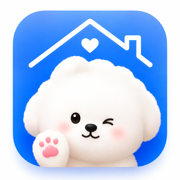
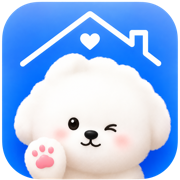
리액션 잠금 + 타임라인/특이사항 위계 + 아이콘 v2
- 리액션은 한 번 보내면 못 바꾼다 (서버 트리거로도 고정, 마이그레이션 22)
- 타임라인 헤더: 시각을 먼저 진하게, 종류는 작은 칩으로
- 특이사항 행: 라벨 위 본문 아래, 구분선, 카드 gap 분리
- span 배지들 세로 가운데 정렬
- 앱 아이콘 v2 (여백 없는 버전), 180/512 정사각, ?v=4

diff --git a/app/src/ui/screens/owner.js b/app/src/ui/screens/owner.js
@@ -63,7 +63,7 @@ export function ownerInstall(state, go, rerender) {
   const step1 = () => sheet([
     el('div', { class: 'grip' }),
     el('div', { class: 'a2head' }, [
-      el('div', { class: 'appicon' }, el('img', { class: 'appimg', src: '/app-icon-180.png?v=3', alt: '' })),
+      el('div', { class: 'appicon' }, el('img', { class: 'appimg', src: '/app-icon-180.png?v=4', alt: '' })),
       el('div', { class: 'pcol' }, [
         el('div', { class: 'h', text: '홈 화면에 앱으로 추가' }),
         el('div', { class: 'sub', text: '설치하면 앱처럼 전체화면으로 열려요.' }),
@@ -421,10 +421,10 @@ export function ownerHome(c, go, ui, rerender, bell) {
         const notes = c.notes.filter(n => !n.pet_id || n.pet_id === cur);
         return notes.length ? el('div', { class: 'sectwrap' }, [
           el('div', { class: 'sect', text: '내가 남긴 특이사항' }),
-          card(notes.map(n => el('div', { class: 'noterow' }, [
+          card([el('div', { class: 'rows' }, notes.map(n => el('div', { class: 'noterow' }, [
             el('span', { class: 'notechip', text: kindName(n.kind) }),
             el('span', { class: 'ptext', text: n.text }),
-          ]))),
+          ])))]),
         ]) : null;
       })() : card([
         el('div', { class: 'profhead' }, [
@@ -470,8 +470,8 @@ export function ownerHome(c, go, ui, rerender, bell) {
         const out = p ? outMinutes(p) : null;
         return card([
           el('div', { class: 'tlhead' }, [
-            el('span', { class: 'kchip' + (p ? ' on' : ''), text: kindName(it.kind) + (p ? ' 완료' : '') }),
-            el('span', { class: 'tltime', text: p ? clock(p.submitted_at) : (it.fuzz_min === -1 ? '아무때나' : `${hm(it.at_time)} 예정`) }),
+            el('span', { class: 'tltime', text: p ? clock(p.submitted_at) : (it.fuzz_min === -1 ? '아무때나' : hm(it.at_time)) }),
+            el('span', { class: 'kchip' + (p ? ' on' : ''), text: kindName(it.kind) + (p ? ' 완료' : ' 예정') }),
             p && !p.seen && !p.verdict ? el('span', { class: 'badge', text: 'NEW' }) : null,
           ]),
           p && p.text ? el('div', { class: 'tltext', text: p.text }) : null,
@@ -496,13 +496,19 @@ export function ownerHome(c, go, ui, rerender, bell) {
               el('span', { class: 'tag', text: ph.is_album ? '앨범' : '앱 촬영' }),
             ]))) : null,
           x.text ? el('div', { class: 'ptext', text: x.text }) : null,
-          el('div', { class: 'react' }, Object.entries(REACTIONS).map(([label, emoji]) =>
-            el('button', { 'aria-pressed': (x.thanks_reaction || '') === label, text: `${emoji} ${label}`,
-              onclick: async () => {
-                x.thanks_reaction = label; x.thanks_at = new Date().toISOString();
-                rerender();
-                try { await thankExtra(x.id, label); } catch (e) { flash('전달 실패', e.message); }
-              } }))),
+          el('div', { class: 'react' + (x.thanks_reaction ? ' locked' : '') },
+            Object.entries(REACTIONS).map(([label, emoji]) =>
+              el('button', {
+                'aria-pressed': (x.thanks_reaction || '') === label,
+                disabled: !!x.thanks_reaction,
+                text: `${emoji} ${label}`,
+                onclick: async () => {
+                  if (x.thanks_reaction) return;
+                  x.thanks_reaction = label; x.thanks_at = new Date().toISOString();
+                  rerender();
+                  try { await thankExtra(x.id, label); } catch (e) { flash('전달 실패', e.message); }
+                },
+              }))),
           x.thanks_at ? el('span', { class: 'thxdone', text: `${clock(x.thanks_at)} 시터에게 전달됐어요` }) : null,
         ])),
       ]) : null,

diff --git a/app/src/style.css b/app/src/style.css
@@ -157,8 +157,14 @@ input[type=time]::-webkit-calendar-picker-indicator{width:15px;height:15px;paddi
   background:rgba(23,23,25,.62);color:#fff;font-size:12px;line-height:1}
 .react{display:flex;gap:6px;flex-wrap:wrap}
 .react button{flex:1;min-width:96px;height:38px;border-radius:1000px;border:1px solid var(--line);
-  background:#fff;color:var(--ink2);font-size:13px;font-weight:600}
+  background:#fff;color:var(--ink2);font-size:13px;font-weight:600;
+  display:inline-flex;align-items:center;justify-content:center;gap:4px}
 .react button[aria-pressed="true"]{background:var(--tint);border-color:var(--primary);color:var(--primary-ink)}
+/* 보낸 뒤에는 고른 것만 남기고 나머지는 물러난다 */
+.react.locked button{opacity:.4}
+.react.locked button[aria-pressed="true"]{opacity:1}
+/* 패딩만 준 span 배지들은 글자가 위로 붙는다 — 스스로 가운데 정렬한다 */
+.badge,.notechip,.kchip,.tag,.veri,.unver,.shotstamp{display:inline-flex;align-items:center;justify-content:center}
 .thxdone{font-size:12px;font-weight:600;color:var(--primary-ink)}
 /* 펫시터 프로필 */
 .veri{align-self:flex-start;font-size:11px;font-weight:700;padding:5px 10px;border-radius:1000px;
@@ -201,17 +207,19 @@ input[type=time]::-webkit-calendar-picker-indicator{width:15px;height:15px;paddi
 .capture{width:100%;border-radius:10px;border:1px solid var(--line);display:block}
 /* 돌봄 일지 — 활동 타임라인 */
 .sect{font-size:17px;font-weight:800;letter-spacing:-.01em;padding:6px 4px 0}
-.tlhead{display:flex;align-items:center;gap:9px}
-.kchip{font-size:12px;font-weight:700;padding:6px 11px;border-radius:1000px;background:var(--bg);color:var(--ink4)}
+.tlhead{display:flex;align-items:center;gap:8px}
+.tltime{font-size:15px;font-weight:700;color:var(--ink);font-variant-numeric:tabular-nums;letter-spacing:-.01em}
+.kchip{font-size:11px;font-weight:700;padding:4px 9px;border-radius:1000px;background:var(--bg);color:var(--ink4)}
 .kchip.on{background:var(--tint);color:var(--primary-ink)}
-.tltime{font-size:13px;font-weight:600;color:var(--ink3)}
 .tltext{font-size:15px;line-height:1.55;color:var(--ink)}
 .tlmeta{font-size:12px;font-weight:500;color:var(--ink4)}
 .imp .capture{cursor:zoom-in}
 .seecap{align-self:center;background:none;border:none;padding:6px 0;font-size:12px;font-weight:500;
   color:var(--ink4);text-decoration:underline;text-underline-offset:3px}
-.noterow{display:flex;align-items:flex-start;gap:9px;padding:10px 0}
-.noterow .notechip{flex:none;margin-top:1px}
+.noterow{display:flex;flex-direction:column;align-items:flex-start;gap:7px;padding:13px 0}
+.noterow+.noterow{border-top:1px solid var(--line)}
+.noterow:first-child{padding-top:0}
+.noterow:last-child{padding-bottom:0}
 .lrbtns{flex:none;display:flex;flex-direction:column;align-items:flex-end;gap:2px}
 .sectwrap{display:flex;flex-direction:column;gap:12px}
 .sectsub{padding:0 4px;font-size:13px;font-weight:500;line-height:1.55;color:var(--ink4);margin-top:-6px}

diff --git a/app/index.html b/app/index.html
@@ -4,9 +4,9 @@
 <meta charset="utf-8">
 <meta name="viewport" content="width=device-width, initial-scale=1, viewport-fit=cover">
 <title>둥지 — 돌봄 기록</title>
-<link rel="icon" href="/app-icon-180.png?v=3">
-<link rel="apple-touch-icon" sizes="180x180" href="/app-icon-180.png?v=3">
-<link rel="apple-touch-icon" sizes="512x512" href="/app-icon-512.png?v=3">
+<link rel="icon" href="/app-icon-180.png?v=4">
+<link rel="apple-touch-icon" sizes="180x180" href="/app-icon-180.png?v=4">
+<link rel="apple-touch-icon" sizes="512x512" href="/app-icon-512.png?v=4">
 <meta name="apple-mobile-web-app-capable" content="yes">
 <meta name="apple-mobile-web-app-status-bar-style" content="default">
 <meta name="theme-color" content="#ffffff">
